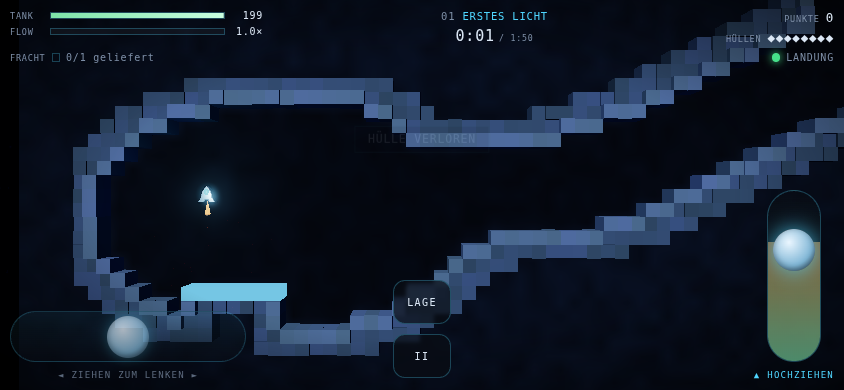
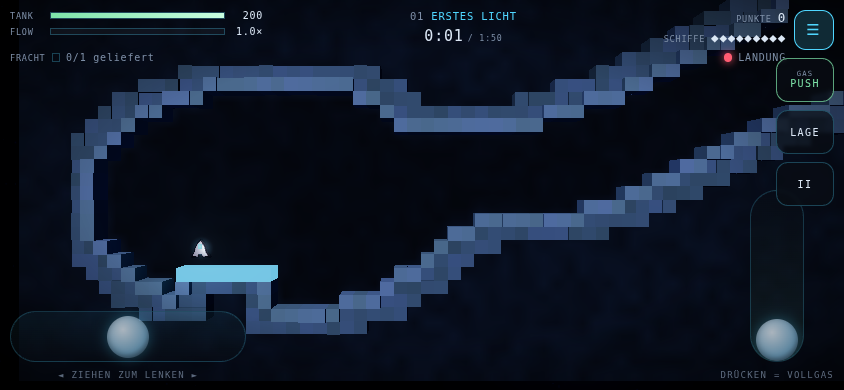
Move the auxiliary touch buttons out of the playfield
On a landscape phone the GAS / LAGE / pause column sat in the middle of
the lower screen, so two buttons were parked on top of the cave with
level behind them. They now hide behind a single toggle pinned to the
top-right frame edge - the one corner the playfield can spare - and drop
out of it as a tray.

- The tray is closed on every launch and stays open until it is closed
  again, so the attitude assist is still holdable mid-flight.
- Closing the tray releases the assist rather than leaving it stuck on.
- The HUD reserves the toggle's corner, and on a narrow portrait phone
  the landing chip drops its caption instead of being clipped by it -
  the colour of the dot is the whole signal there anyway.
- Portrait no longer needs its own rule lifting the button column out of
  the flex line; the column is gone.

Also regenerates the README screenshots, which still showed the old
button column, the old title and the old menu tree, and documents the
tray in the in-game help panel and the README.

One test change beyond the new coverage: the push-mode thrust test waited
600 ms of wall time for the ship to climb, which under SwiftShader on a
loaded machine buys barely a second of simulation and put the assertion
right on its threshold. It now waits on simulated time instead, so it
asserts the same climb without depending on the renderer's throughput.

Claude-Session: https://claude.ai/code/session_0164oBmwDxaVy98oKnS3nfUL

diff --git a/src/ui/touch.ts b/src/ui/touch.ts
@@ -30,6 +30,13 @@
  *
  * Each zone captures its own pointer, so two thumbs work simultaneously and a
  * finger that wanders outside its zone keeps control of it.
+ *
+ * The three auxiliary buttons - throttle mode, attitude assist and pause - used
+ * to sit in a column between the paddles, which on a landscape phone put them
+ * squarely in the middle of the playfield. They now live behind a single toggle
+ * in the top-right corner, over the frame edge rather than over the cave. The
+ * tray stays open until it is closed again, so the assist is still holdable
+ * mid-flight for anyone who wants it.
  */
 
 export interface TouchState {
@@ -86,6 +93,8 @@ export class TouchControls {
   private readonly pauseBtn: HTMLElement;
   private readonly modeBtn: HTMLElement;
   private readonly modeValue: HTMLElement;
+  private readonly menuBtn: HTMLElement;
+  private readonly tray: HTMLElement;
 
   private turn = 0;
   private throttle = 0;
@@ -112,12 +121,17 @@ export class TouchControls {
           <span class="touch-label">◄ ZIEHEN ZUM LENKEN ►</span>
         </div>
       </div>
-      <div class="touch-mid">
-        <button class="touch-btn touch-btn-mode" data-role="mode" type="button">
-          <small>GAS</small><span data-role="mode-value">PUSH</span>
-        </button>
-        <button class="touch-btn" data-role="level" type="button" aria-label="Lage-Assistent">LAGE</button>
-        <button class="touch-btn" data-role="pause" type="button" aria-label="Pause">II</button>
+      <div class="touch-menu" data-role="menu">
+        <button class="touch-btn touch-menu-btn" data-role="menu-toggle" type="button"
+                aria-expanded="false" aria-controls="touch-tray"
+                aria-label="Zusatztasten anzeigen">&#9776;</button>
+        <div class="touch-tray" id="touch-tray" data-role="tray" hidden>
+          <button class="touch-btn touch-btn-mode" data-role="mode" type="button">
+            <small>GAS</small><span data-role="mode-value">PUSH</span>
+          </button>
+          <button class="touch-btn" data-role="level" type="button" aria-label="Lage-Assistent">LAGE</button>
+          <button class="touch-btn" data-role="pause" type="button" aria-label="Pause">II</button>
+        </div>
       </div>
       <div class="touch-zone touch-zone-right" data-role="throttle">
         <div class="touch-throttle" role="slider" aria-label="Schub"
@@ -150,6 +164,8 @@ export class TouchControls {
     this.pauseBtn = pick('[data-role="pause"]');
     this.modeBtn = pick('[data-role="mode"]');
     this.modeValue = pick('[data-role="mode-value"]');
+    this.menuBtn = pick('[data-role="menu-toggle"]');
+    this.tray = pick('[data-role="tray"]');
 
     this.wirePaddle(this.steer, 'x');
     this.wirePaddle(this.throttlePaddle, 'y');
@@ -247,6 +263,7 @@ export class TouchControls {
     this.steer.zone.classList.remove('engaged');
     this.throttlePaddle.zone.classList.remove('engaged');
     this.levelBtn.classList.remove('held');
+    this.setTrayOpen(false);
     this.paint();
   }
 
@@ -340,7 +357,33 @@ export class TouchControls {
     p.zone.addEventListener('lostpointercapture', end);
   }
 
+  /** Whether the auxiliary button tray is open. */
+  get trayOpen(): boolean {
+    return !this.tray.hidden;
+  }
+
+  setTrayOpen(open: boolean) {
+    this.tray.hidden = !open;
+    this.menuBtn.setAttribute('aria-expanded', String(open));
+    this.menuBtn.setAttribute(
+      'aria-label',
+      open ? 'Zusatztasten ausblenden' : 'Zusatztasten anzeigen',
+    );
+    this.menuBtn.classList.toggle('is-open', open);
+    // A tray that closes while LAGE is held would leave the assist stuck on.
+    if (!open && this.levelOut) {
+      this.levelOut = false;
+      this.levelBtn.classList.remove('held');
+    }
+  }
+
   private wireButtons() {
+    this.menuBtn.addEventListener('pointerdown', (e) => {
+      e.preventDefault();
+      e.stopPropagation();
+      this.setTrayOpen(!this.trayOpen);
+    });
+
     const hold = (on: boolean) => {
       this.levelOut = on;
       this.levelBtn.classList.toggle('held', on);

diff --git a/tests/e2e/smoke.spec.ts b/tests/e2e/smoke.spec.ts
@@ -330,6 +330,16 @@ async function launchLevelOne(page: Page) {
 }
 
 /**
+ * Open the auxiliary button tray. GAS, LAGE and pause hide behind a toggle in
+ * the top-right corner - on a landscape phone a column of buttons between the
+ * paddles sat right on top of the cave.
+ */
+async function openTray(page: Page) {
+  await page.locator('.touch-menu-btn').click();
+  await expect(page.locator('.touch-tray')).toBeVisible();
+}
+
+/**
  * Press at a point given in 0..1 of an element's box, then drag by a pixel
  * offset. The paddles are relative: what matters is the movement, not where it
  * started.
@@ -434,6 +444,8 @@ test('push mode: pressing the right zone is full power at once', async ({ page }
   const errors = await bootWithoutSave(page);
   await enableTouchControls(page);
   await launchLevelOne(page);
+  await expect(page.locator('.touch-tray')).toBeHidden();
+  await openTray(page);
   await expect(page.locator('.touch-btn-mode')).toContainText('PUSH');
 
   const zone = (await page.locator('.touch-zone-right').boundingBox())!;
@@ -445,7 +457,11 @@ test('push mode: pressing the right zone is full power at once', async ({ page }
   await page.waitForTimeout(60);
   expect((await touchState(page)).throttle).toBe(1);
 
-  await page.waitForTimeout(600);
+  // Wait on *simulated* time, not wall time: under SwiftShader a loaded machine
+  // fits barely a second of simulation into a second of waiting, and the climb
+  // this asserts then lands right on the threshold.
+  const t0 = await simTime(page);
+  await expect.poll(() => simTime(page), { timeout: 20_000 }).toBeGreaterThan(t0 + 1);
   const held = await shipState(page);
   await page.mouse.up();
   expect(held.throttle).toBeGreaterThan(0.9);
@@ -480,6 +496,7 @@ test('the GAS button switches the mode in flight and the choice sticks', async (
   await bootWithoutSave(page);
   await enableTouchControls(page);
   await launchLevelOne(page);
+  await openTray(page);
 
   const modeBtn = page.locator('.touch-btn-mode');
   await modeBtn.click();
@@ -797,4 +814,42 @@ test('the ship never blows the screen out, even with bloom on', async ({ page })
   // Measured ~0.03% after the fix; the pre-fix build sat at ~0.28%, so this
   // bound has room for honest variation and still catches a real regression.
   expect(worst).toBeLessThan(0.0012);
+});
+
+test('the auxiliary buttons keep out of the playfield on a landscape phone', async ({ page }) => {
+  // The complaint that produced the tray: in landscape the GAS / LAGE / pause
+  // column sat in the middle of the lower screen, on top of the cave.
+  await page.setViewportSize({ width: 844, height: 390 });
+  await bootWithoutSave(page);
+  await enableTouchControls(page);
+  await launchLevelOne(page);
+
+  // Closed by default, and nothing of it is over the playfield.
+  await expect(page.locator('.touch-tray')).toBeHidden();
+
+  const toggle = (await page.locator('.touch-menu-btn').boundingBox())!;
+  // Top-right corner: clear of the lower two thirds and hard against the edge.
+  expect(toggle.y + toggle.height).toBeLessThan(390 * 0.25);
+  expect(toggle.x).toBeGreaterThan(844 * 0.85);
+
+  // Open, the tray hangs off that corner rather than sitting mid-screen.
+  await openTray(page);
+  const tray = (await page.locator('.touch-tray').boundingBox())!;
+  expect(tray.x).toBeGreaterThan(844 * 0.8);
+
+  // And the HUD's right-hand cluster does not end up underneath the toggle.
+  const stats = (await page.locator('.hud-right').boundingBox())!;
+  expect(stats.x + stats.width).toBeLessThanOrEqual(toggle.x + 1);
+
+  // Closing it again must not leave the attitude assist stuck on.
+  await page.locator('[data-role="level"]').dispatchEvent('pointerdown');
+  await page.locator('.touch-menu-btn').click();
+  await expect(page.locator('.touch-tray')).toBeHidden();
+  expect(
+    await page.evaluate(
+      () =>
+        (window as never as { game: { touch: { state(): { levelOut: boolean } } } }).game.touch.state()
+          .levelOut,
+    ),
+  ).toBe(false);
 });

diff --git a/src/style.css b/src/style.css
@@ -649,6 +649,8 @@ kbd {
 body.has-touch-controls .hud {
   justify-content: flex-start;
   gap: 0.7em;
+  /* Leave the top-right corner to the button tray's toggle. */
+  padding-right: calc(clamp(10px, 2vmin, 22px) + clamp(48px, 9vmin, 62px));
 }
 
 body.has-touch-controls .hud-bottom {
@@ -757,16 +759,6 @@ body.has-touch-controls .toast {
   transform: translateX(-50%);
 }
 
-.touch-mid {
-  flex: 0 0 auto;
-  align-self: flex-end;
-  display: flex;
-  flex-direction: column;
-  gap: 0.6em;
-  pointer-events: auto;
-  padding: 0 0.4em clamp(12px, 3vmin, 30px);
-}
-
 .touch-btn {
   min-width: clamp(58px, 12vmin, 86px);
   min-height: clamp(44px, 8vmin, 60px);
@@ -809,6 +801,46 @@ body.has-touch-controls .toast {
   color: #7de3a8;
 }
 
+/* Auxiliary buttons: a toggle pinned to the top-right frame edge, with the
+   buttons themselves in a tray that drops out of it. In the previous layout
+   this was a column between the two paddles, which on a landscape phone sat in
+   the middle of the playfield and hid a chunk of cave behind two buttons. */
+.touch-menu {
+  position: fixed;
+  z-index: 8;
+  top: max(clamp(10px, 2vmin, 22px), env(safe-area-inset-top));
+  right: max(clamp(10px, 2vmin, 22px), env(safe-area-inset-right));
+  display: flex;
+  flex-direction: column;
+  align-items: flex-end;
+  gap: 0.5em;
+  pointer-events: auto;
+}
+
+.touch-menu-btn {
+  min-width: clamp(40px, 8vmin, 52px);
+  min-height: clamp(40px, 8vmin, 52px);
+  font-size: clamp(15px, 2.4vmin, 20px);
+  line-height: 1;
+}
+
+.touch-menu-btn.is-open {
+  border-color: var(--accent);
+  color: var(--accent);
+  background: rgba(79, 214, 255, 0.18);
+}
+
+.touch-tray {
+  display: flex;
+  flex-direction: column;
+  align-items: stretch;
+  gap: 0.5em;
+}
+
+.touch-tray[hidden] {
+  display: none;
+}
+
 /* Portrait phones: the sliders need the width more than the labels do. */
 @media (orientation: portrait) and (max-width: 560px) {
   .touch-track {
@@ -820,24 +852,16 @@ body.has-touch-controls .toast {
   .touch-label {
     display: none;
   }
-  /* A portrait phone does not have the width for two tracks *and* a column of
-     buttons between them - with three buttons the throttle track was pushed off
-     the right edge. So the row lifts out of the flex line entirely and sits
-     above the paddles, which leaves each zone half the screen. */
-  .touch-mid {
-    position: absolute;
-    top: 0;
-    left: 50%;
-    transform: translateX(-50%);
-    flex-direction: row;
-    align-self: flex-start;
-    padding: 0;
-  }
   /* The mode switch is the one that can afford to be small: it is not pressed
      while flying. */
   .touch-btn-mode {
     min-width: clamp(46px, 11vmin, 70px);
     font-size: clamp(9px, 1.2vmin, 11px);
+  }
+  /* The tray toggle takes the corner, and a narrow portrait row has no width to
+     spare for the word as well - the dot's colour is the whole signal anyway. */
+  body.has-touch-controls .landing .txt {
+    display: none;
   }
 }
 

diff --git a/src/ui/screens.ts b/src/ui/screens.ts
@@ -309,9 +309,10 @@ export class Screens {
           save.throttleMode === 'push'
             ? 'Antippen gibt sofort vollen Schub – genau wie die Schub-Taste. Ziehst du vom ' +
               'Berührungspunkt nach unten, nimmst du Gas weg. Lässt sich auch während des ' +
-              'Flugs über die GAS-Taste umschalten.'
+              'Flugs umschalten: über die Taste ☰ oben rechts.'
             : 'Der Schub kommt allein aus dem Zugweg: Antippen bewirkt nichts, Hochziehen ' +
-              'gibt Gas. Lässt sich auch während des Flugs über die GAS-Taste umschalten.',
+              'gibt Gas. Lässt sich auch während des Flugs umschalten: über die Taste ☰ ' +
+              'oben rechts.',
         action: actions.throttleMode,
       },
       {
@@ -455,11 +456,13 @@ export class Screens {
         bekommst du zwei Regler: die linke Bildschirmhälfte lenkt, die rechte gibt Schub. Du
         berührst irgendeine Stelle der jeweiligen Hälfte und ziehst; entscheidend ist, wie
         weit du ziehst, nicht wo du das Display berührst. Das Lenken ist stufenlos und lässt
-        sich deshalb fein dosieren.
+        sich deshalb fein dosieren. Lage-Assistent, Pause und die Umschaltung des
+        Schub-Modus liegen hinter der Taste ☰ oben rechts – so steht keine Taste mitten in
+        der Höhle.
       </p>
       <p class="footnote">
-        Für den Schub gibt es zwei Modi. Du schaltest sie mit der GAS-Taste zwischen den
-        Reglern oder in den Einstellungen um. <b>PUSH</b> (Standard): Antippen gibt sofort
+        Für den Schub gibt es zwei Modi. Du schaltest sie mit der GAS-Taste im Tastenfach
+        oder in den Einstellungen um. <b>PUSH</b> (Standard): Antippen gibt sofort
         vollen Schub, und wer feiner dosieren möchte, zieht vom Berührungspunkt nach unten.
         <b>REGLER</b>: Der Schub kommt allein aus dem Zugweg; zum Schweben brauchst du etwa
         ein Drittel davon.

diff --git a/README.md b/README.md
@@ -29,7 +29,7 @@ pick up freight and put it down softly on the base pad. The rock is always fatal
 <td><img src="shots/level20-finale.png" alt="Cave 20, Eventide" /></td>
 </tr>
 <tr>
-<td><img src="shots/phone-landscape.png" alt="On a phone in landscape: steering paddle bottom left, throttle paddle bottom right held open, HUD stacked at the top" /></td>
+<td><img src="shots/phone-landscape.png" alt="On a phone in landscape: steering paddle bottom left, throttle paddle bottom right, HUD stacked at the top and the auxiliary button tray open from the top-right corner" /></td>
 <td><img src="shots/difficulty.png" alt="Difficulty screen listing speed and thrust per tier" /></td>
 </tr>
 </table>
@@ -108,8 +108,15 @@ as two thumbs. Force them on or off under Einstellungen. Landscape gives you
 noticeably more cave to see; portrait is playable and the game says so once,
 rather than blocking the screen.
 
-The throttle paddle has **two modes**, switched with the GAS button between the
-paddles or under Einstellungen → Schub-Modus:
+The three auxiliary buttons — throttle mode, attitude assist and pause — sit
+behind a **☰ toggle in the top-right corner**. They used to be a column between
+the paddles, which on a landscape phone put two buttons in the middle of the
+playfield with cave behind them. The tray stays open until you close it again,
+so the assist is still holdable in flight, and closing it releases the assist
+rather than leaving it stuck on.
+
+The throttle paddle has **two modes**, switched with the GAS button in the
+tray or under Einstellungen → Schub-Modus:
 
 | Mode | What a press does |
 |---|---|
@@ -427,9 +434,11 @@ A second round, after the touch controls went in:
   happened, on a device that is also being tilted and jostled. A press in the
   right zone is now full power (`PUSH` mode), with the pull-down trim keeping the
   analog control for anyone who wants it, and the old behaviour is one tap away
-  on the GAS button. Portrait had to give up the button column between the
-  paddles for this — a third button pushed the throttle track off the right
-  edge — so in portrait the buttons sit above the paddles instead.
+  on the GAS button.
+- The button column between the paddles was the wrong place for buttons on any
+  phone, and worst in landscape: two of them sat in the middle of the lower
+  screen with cave behind them. They now hide behind a ☰ toggle pinned to the
+  top-right frame edge, which is the one corner the playfield can spare.
 
 Playtesting the autopilot runs also changed three level designs: level 7's
 blowers were producing a 2 g net updraft that pinned you to the ceiling, level
